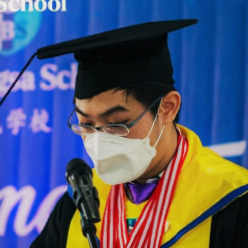
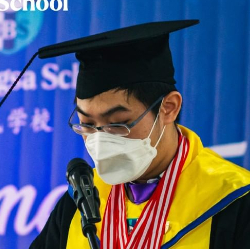
changed home pic

diff --git a/index.html b/index.html
@@ -68,7 +68,7 @@
                     <div id="home_pic_container">
                         <i class="fa-solid fa-play" id="home_triangle"></i>
                         <i class="fa-solid fa-play" id="home_triangle_shadow"></i>
-                        <img id="home_pic" src="./assets/home-pic.png" alt="A pic of me!">
+                        <img id="home_pic" src="./assets/my-pic.png" alt="A pic of me!">
                         <div id="home_pic_shadow"></div>
                         <i class="fa-solid fa-square" id="home_square"></i>
                         <i class="fa-solid fa-square" id="home_square_shadow"></i>
